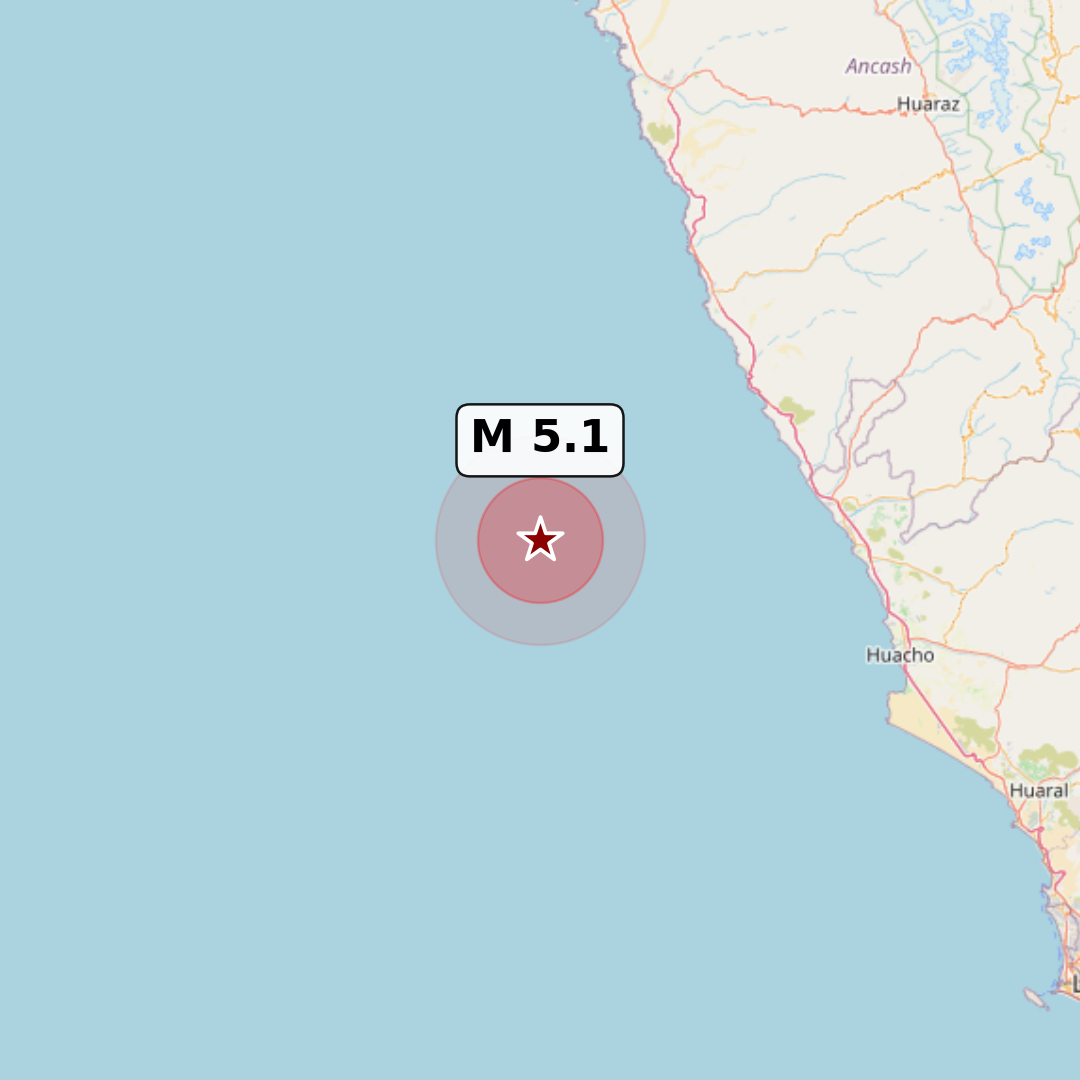
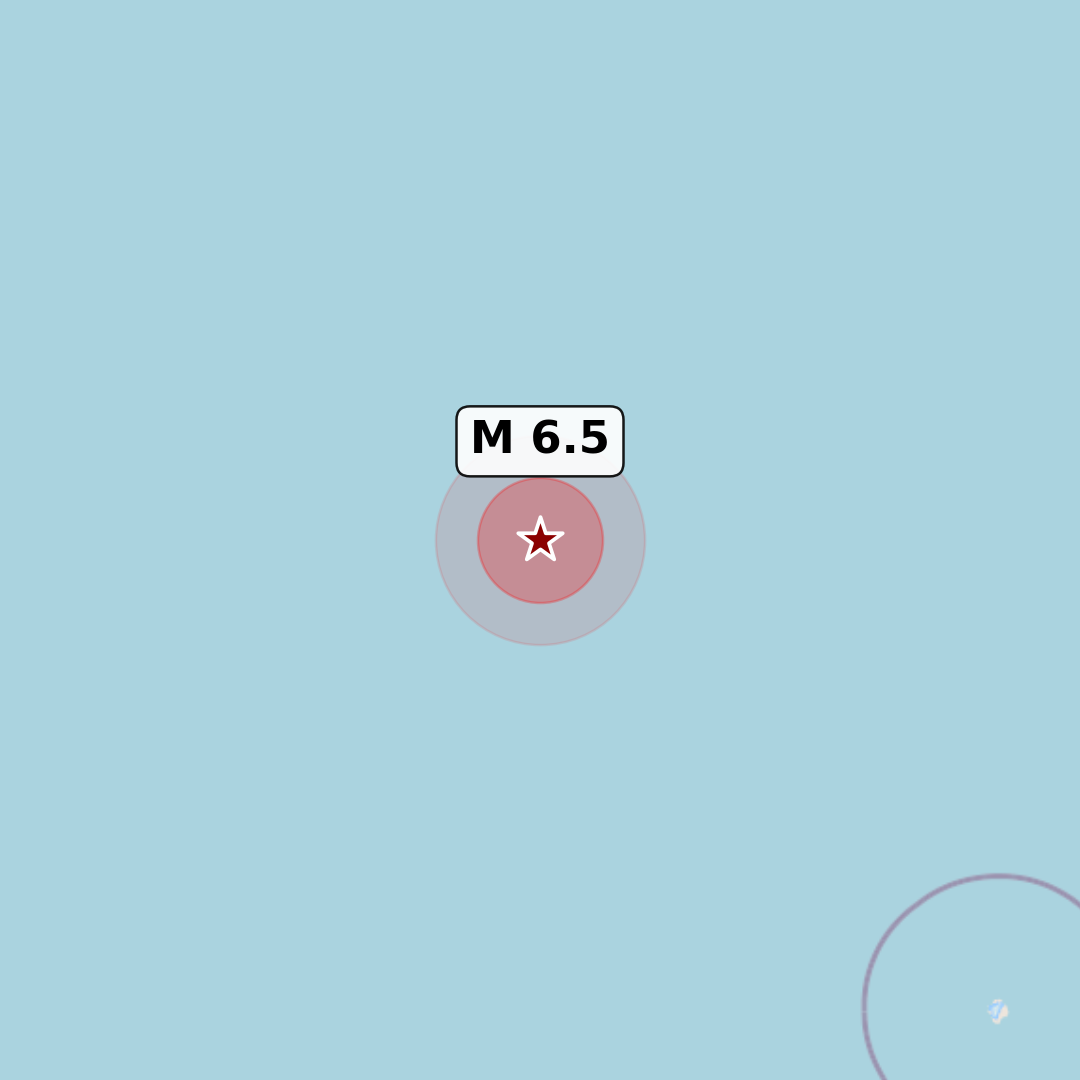
Trying to catch the earthquakes

diff --git a/app.py b/app.py
@@ -174,41 +174,80 @@ def generate_final_image(sismo_data):
 
     img_final.paste(img, (0, 0))
     img_final.paste(img_map, (1080, 0))
+    if os.path.exists("assets/SISMO_TWEET.png"):
+        os.remove("assets/SISMO_TWEET.png")
     img_final.save("assets/SISMO_TWEET.png")
 
     print("Imagem gerada: assets/SISMO_TWEET.png")
 
 
-def enviar_discord(sismo):
+def enviar_discord(sismo, tentativas=5):
 
     if not DISCORD_WEBHOOK:
-        print("Webhook do Discord não configurado.")
-        return
+        print("Webhook não configurado.")
+        return False
 
     mensagem = (
         f"🌍 **Novo sismo registado**\n\n"
-        f"📍 **Local:** {sismo['location']}\n"
-        f"📈 **Magnitude:** {sismo['scale']}\n"
-        f"🕒 **Data:** {sismo['date']}"
+        f"📍 Local: {sismo['location']}\n"
+        f"📈 Magnitude: {sismo['scale']}\n"
+        f"🕒 {sismo['date']}"
     )
 
-    with open("assets/SISMO_TWEET.png", "rb") as imagem:
+    for tentativa in range(1, tentativas + 1):
 
-        requests.post(
-            DISCORD_WEBHOOK,
-            data={
-                "content": mensagem
-            },
-            files={
-                "file": ("SISMO.png", imagem, "image/png")
-            },
-            timeout=30
-        )
+        try:
+
+            with open("assets/SISMO_TWEET.png", "rb") as imagem:
+
+                r = requests.post(
+                    DISCORD_WEBHOOK,
+                    data={"content": mensagem},
+                    files={
+                        "file": (
+                            "SISMO.png",
+                            imagem,
+                            "image/png"
+                        )
+                    },
+                    timeout=30
+                )
+
+            if r.status_code in (200, 204):
+                print(f"Discord: enviado à {tentativa}ª tentativa.")
+                return True
+
+            print(
+                f"Discord respondeu {r.status_code} "
+                f"(tentativa {tentativa}/{tentativas})"
+            )
+
+            print(r.text)
+
+        except Exception as e:
+
+            print(
+                f"Erro ao enviar para o Discord "
+                f"(tentativa {tentativa}/{tentativas}): {e}"
+            )
+
+        time.sleep(5)
+
+    print("Falha ao enviar para o Discord após várias tentativas.")
+    return False
 
 
 def monitor_sismos():
 
     global ultimo_sismo
+
+    print("Monitor de sismos iniciado.")
+
+    primeiro = get_latest_sismo()
+
+    if primeiro:
+        ultimo_sismo = primeiro["id"]
+        print("Último sismo conhecido:", ultimo_sismo)
 
     while True:
 
@@ -217,24 +256,22 @@ def monitor_sismos():
             sismo = get_latest_sismo()
 
             if sismo is None:
+                print("Nenhum sismo encontrado.")
                 time.sleep(60)
                 continue
 
-            identificador = (
-                sismo["date"],
-                sismo["location"],
-                sismo["scale"]
-            )
+            print("Último do IPMA:", sismo["id"])
 
-            if identificador != ultimo_sismo:
+            if sismo["id"] != ultimo_sismo:
 
-                print("Novo sismo encontrado!")
+                print("Novo sismo detetado!")
 
                 generate_final_image(sismo)
 
-                enviar_discord(sismo)
-
-                ultimo_sismo = identificador
+                if enviar_discord(sismo):
+                    ultimo_sismo = sismo["id"]
+                else:
+                    print("O sismo será tentado novamente na próxima verificação.")
 
             else:
                 print("Sem novos sismos.")
@@ -286,8 +323,26 @@ def obter_sismos():
         })
 
     # Ordenar por data (mais recente primeiro)
+    for s in sismos:
+
+        try:
+            s["datetime"] = datetime.fromisoformat(
+                s["time"].replace("Z", "")
+            )
+        except ValueError:
+            try:
+                s["datetime"] = datetime.strptime(
+                    s["time"],
+                    "%Y-%m-%d %H:%M:%S"
+                )
+            except ValueError:
+                s["datetime"] = datetime.strptime(
+                    s["time"],
+                    "%Y-%m-%dT%H:%M:%S"
+                )
+
     sismos.sort(
-        key=lambda x: datetime.strptime(x["time"], "%Y-%m-%dT%H:%M:%S"),
+        key=lambda x: x["datetime"],
         reverse=True
     )
 
@@ -305,13 +360,14 @@ def get_latest_sismo():
         return None
 
     s = data["data"][0]
-    try:
-        dt = datetime.strptime(s["time"], "%Y-%m-%d %H:%M:%S")
-        data_formatada = dt.strftime("%d-%m-%Y pelas %H:%M (hora local)")
-    except:
-        data_formatada = s["time"]
+    dt = s["datetime"]
+
+    data_formatada = dt.strftime(
+        "%d-%m-%Y pelas %H:%M (hora local)"
+    )
 
     return {
+        "id": s["time"],
         "location": s["obsRegion"] or s["areaID"] or "Portugal",
         "scale": s["magnitude"] or 0.0,
         "date": data_formatada,
@@ -363,4 +419,10 @@ if __name__ == "__main__":
         target=monitor_sismos,
         daemon=True
     ).start()
-    app.run(host="0.0.0.0", port=9076, debug=True)
+
+    app.run(
+        host="0.0.0.0",
+        port=9076,
+        debug=False,
+        use_reloader=False
+    )
